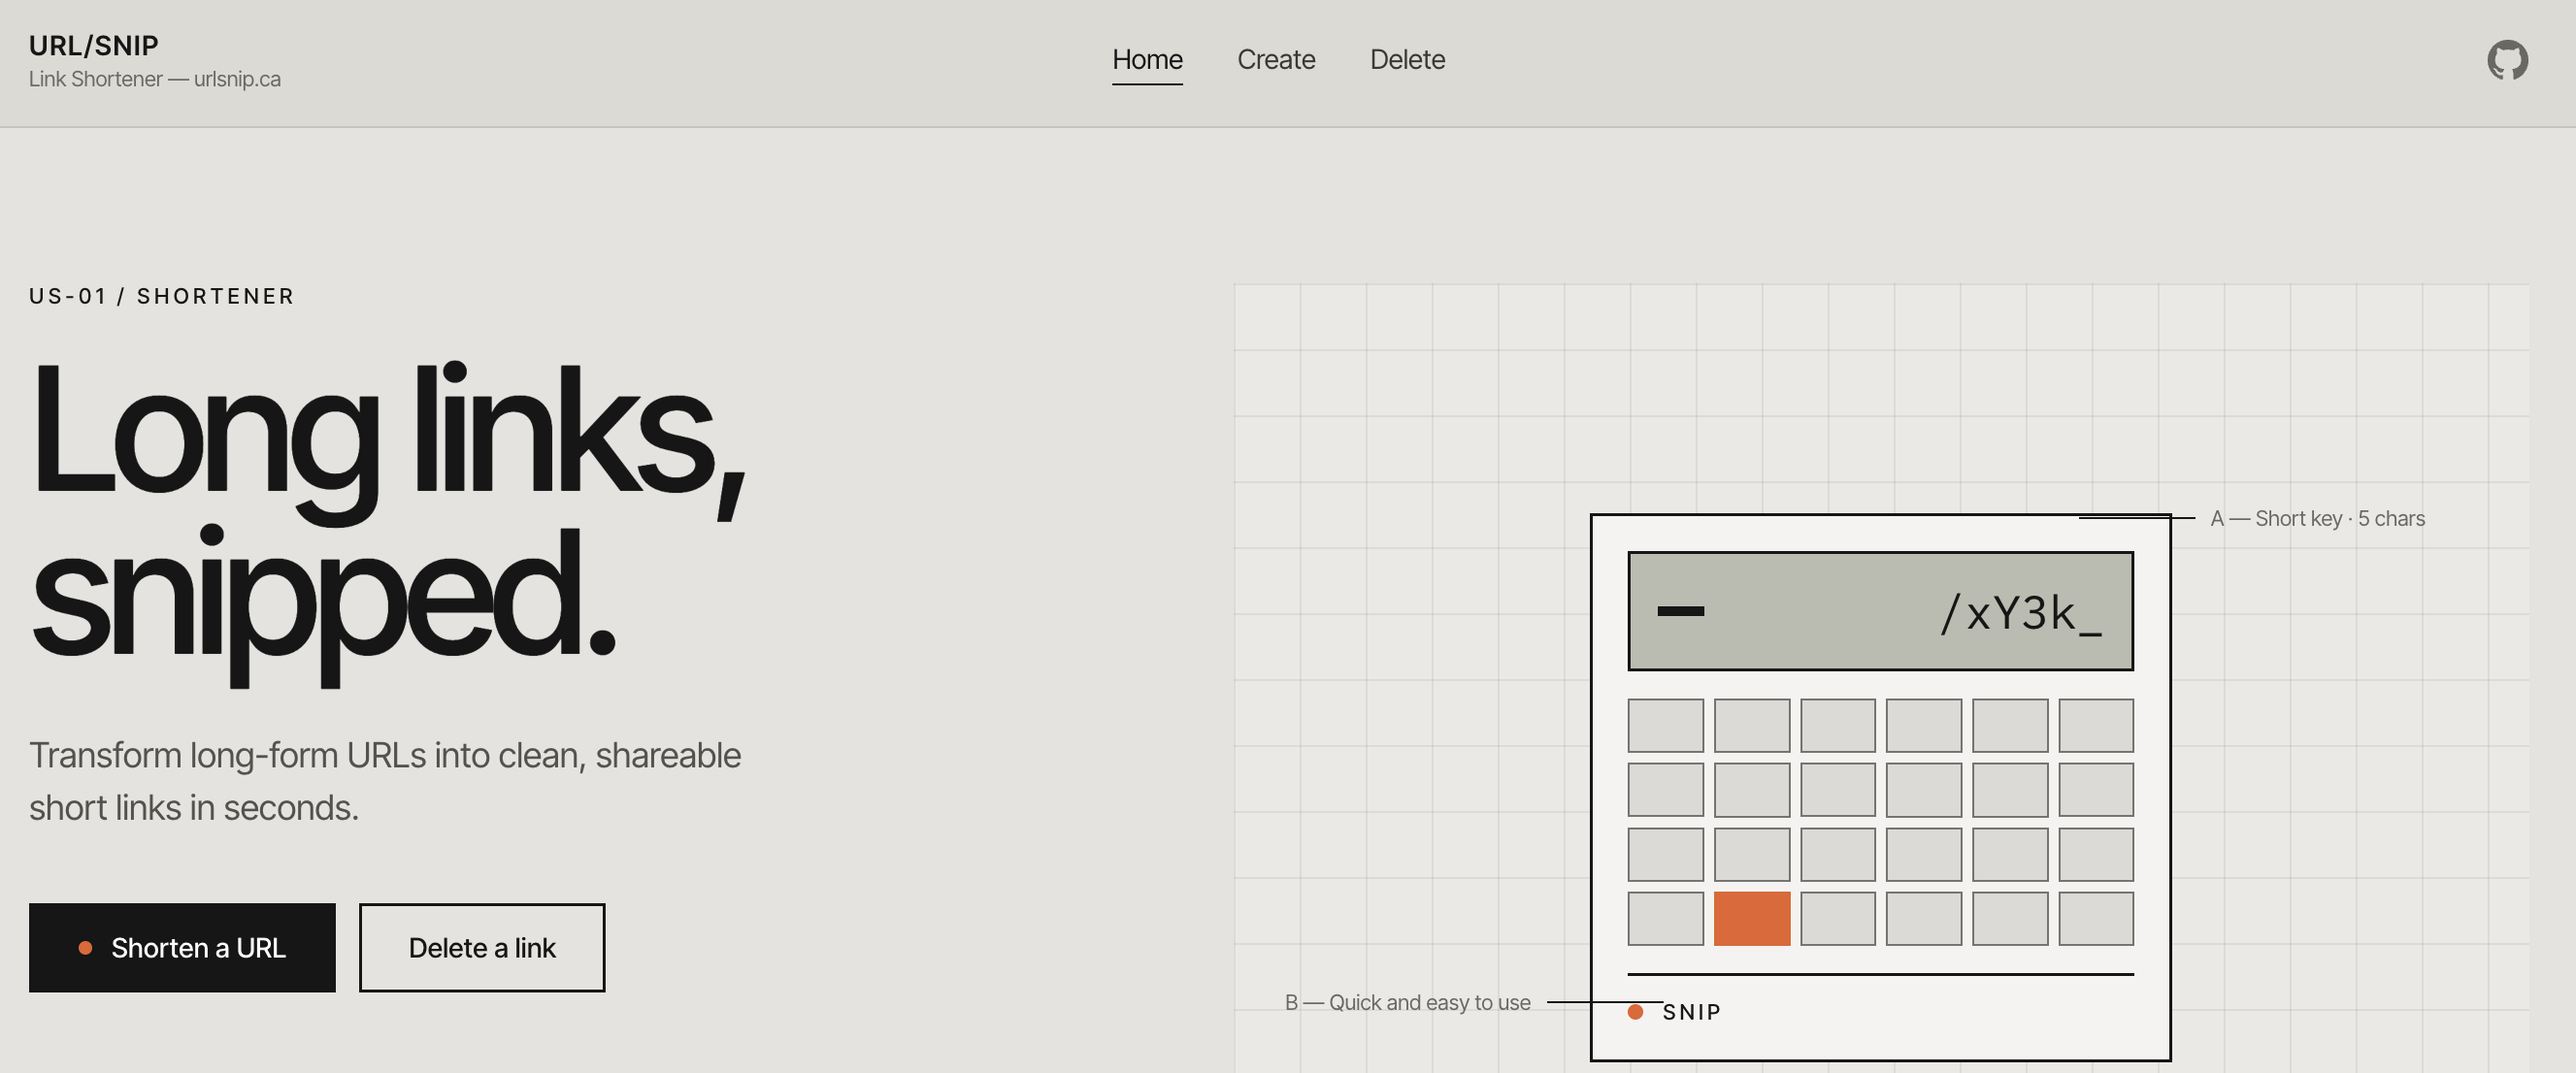
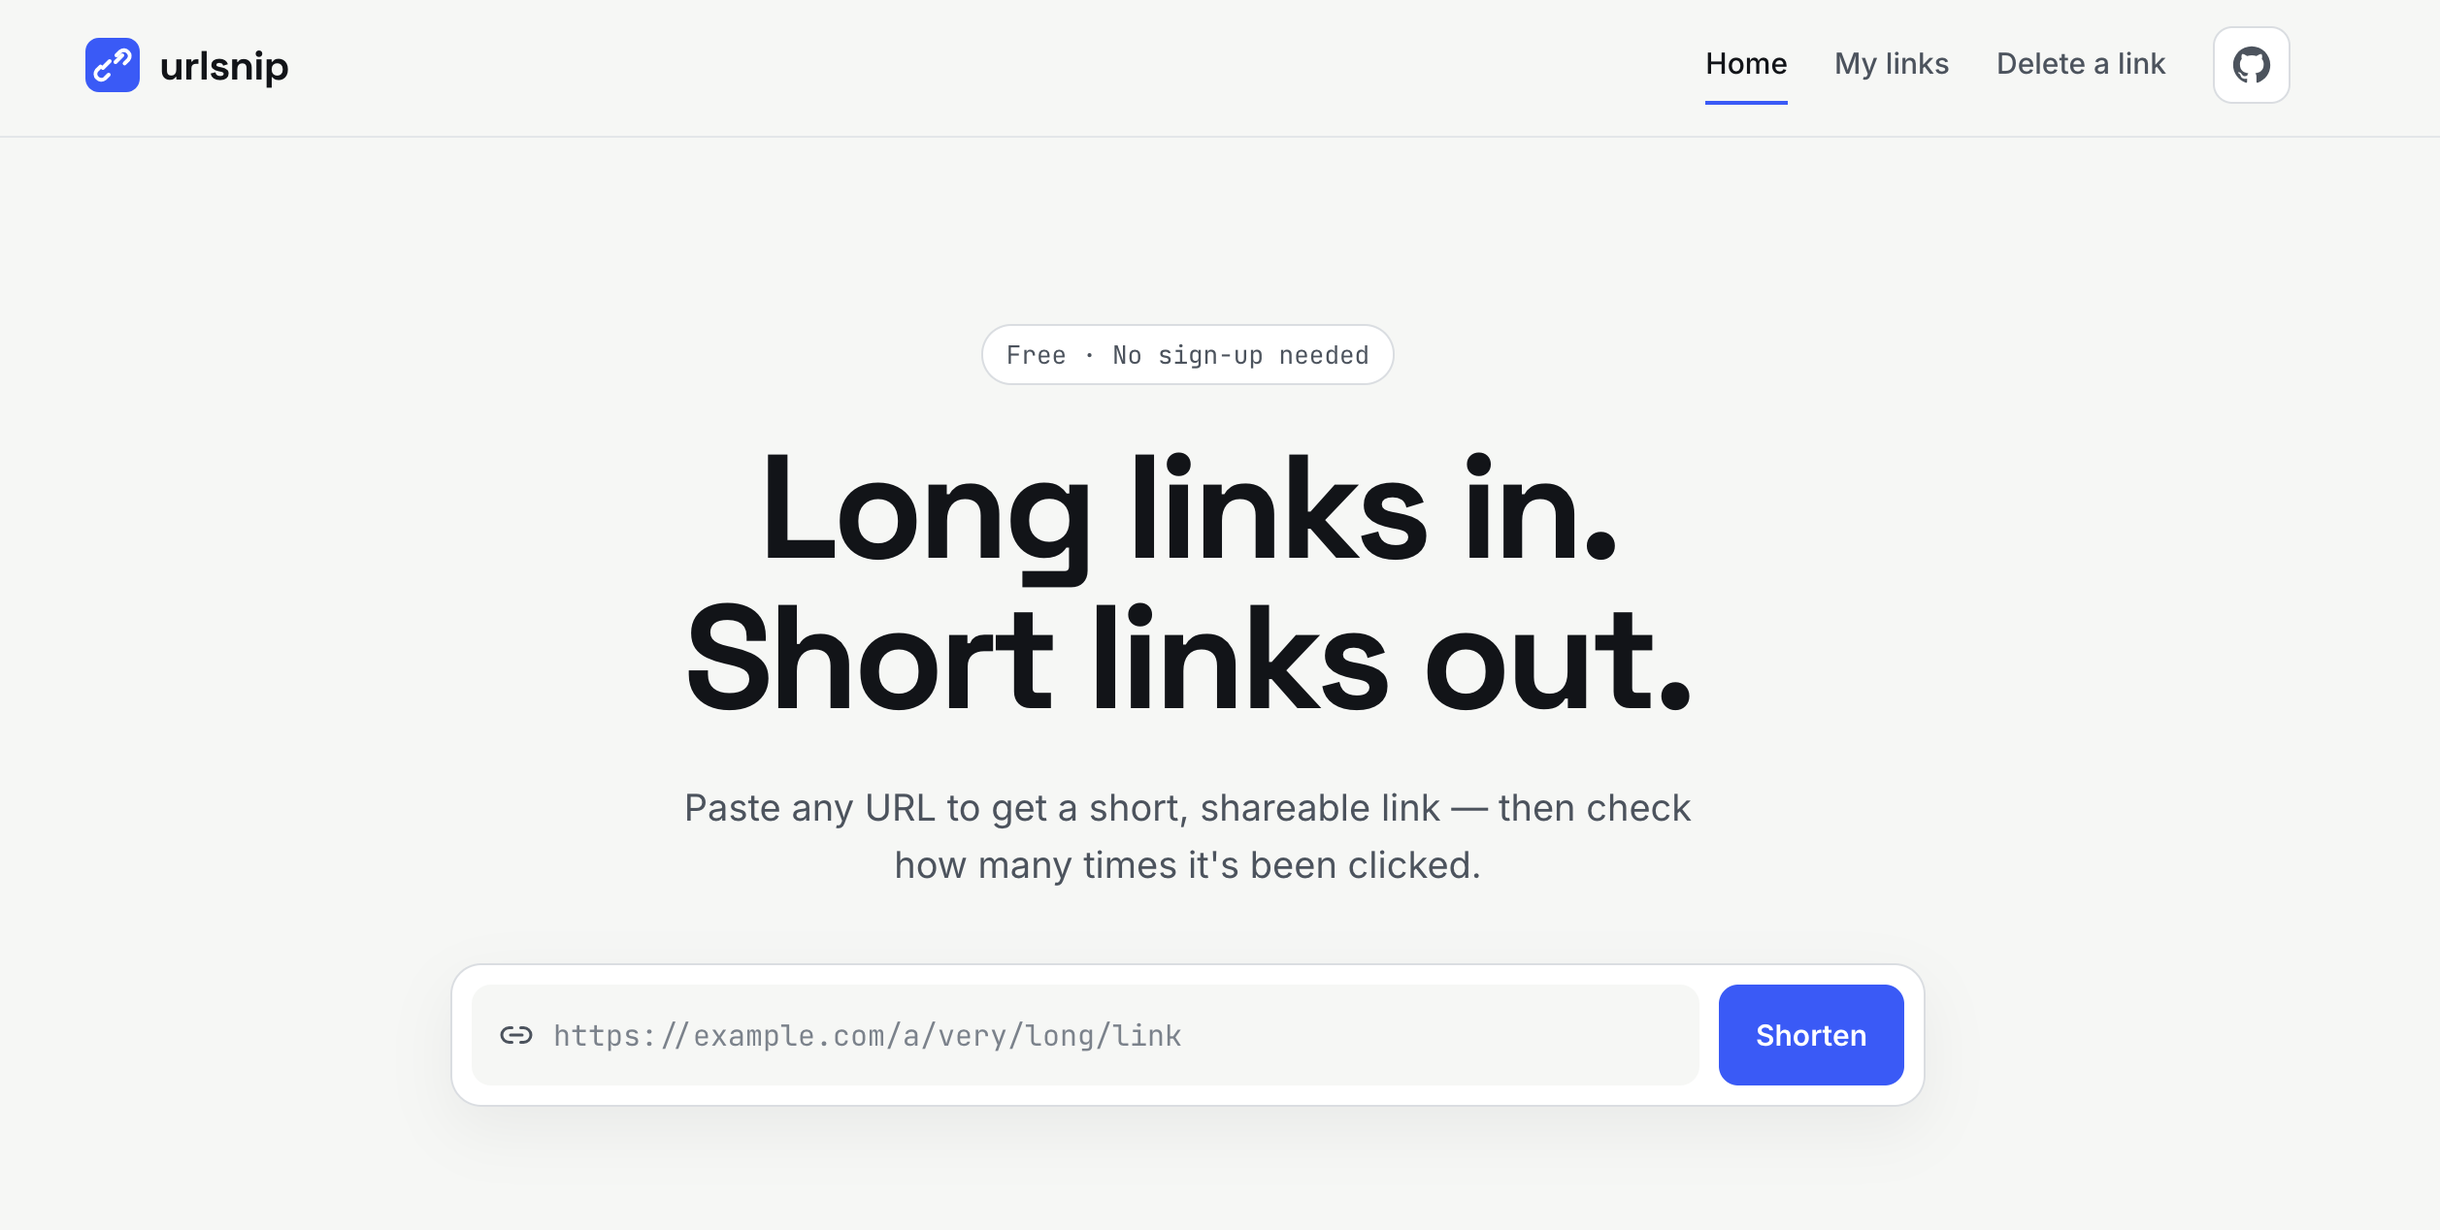
adding project and work images

diff --git a/app/data.ts b/app/data.ts
@@ -63,6 +63,7 @@ export const work: Work[] = [
     positions: [
       { title: "Data Analyst", place: "Toronto", dates: "Jun 2024 – Present" },
     ],
+    logo: "/logos/camh.jpg",
   },
   {
     org: "University Health Network",
@@ -75,6 +76,7 @@ export const work: Work[] = [
         dates: "Oct 2021 – Apr 2024",
       },
     ],
+    logo: "/logos/UHN.jpg",
   },
 ];
 
@@ -94,6 +96,7 @@ export const projects: Project[] = [
     year: "2026",
     description: "FastAPI + React full stack url shortener",
     stat: "1k URLs shortened",
+    image: "/projects/urlsnip.png",
     links: [
       { label: "live site ↗", href: "https://URLsnip.ca" },
       {

diff --git a/app/page.tsx b/app/page.tsx
@@ -155,6 +155,7 @@ export default function Home() {
                       alt={`${p.name} interface`}
                       width={960}
                       height={540}
+                      loading="eager"
                     />
                   ) : (
                     <span className="project-image-placeholder">{p.name}</span>
